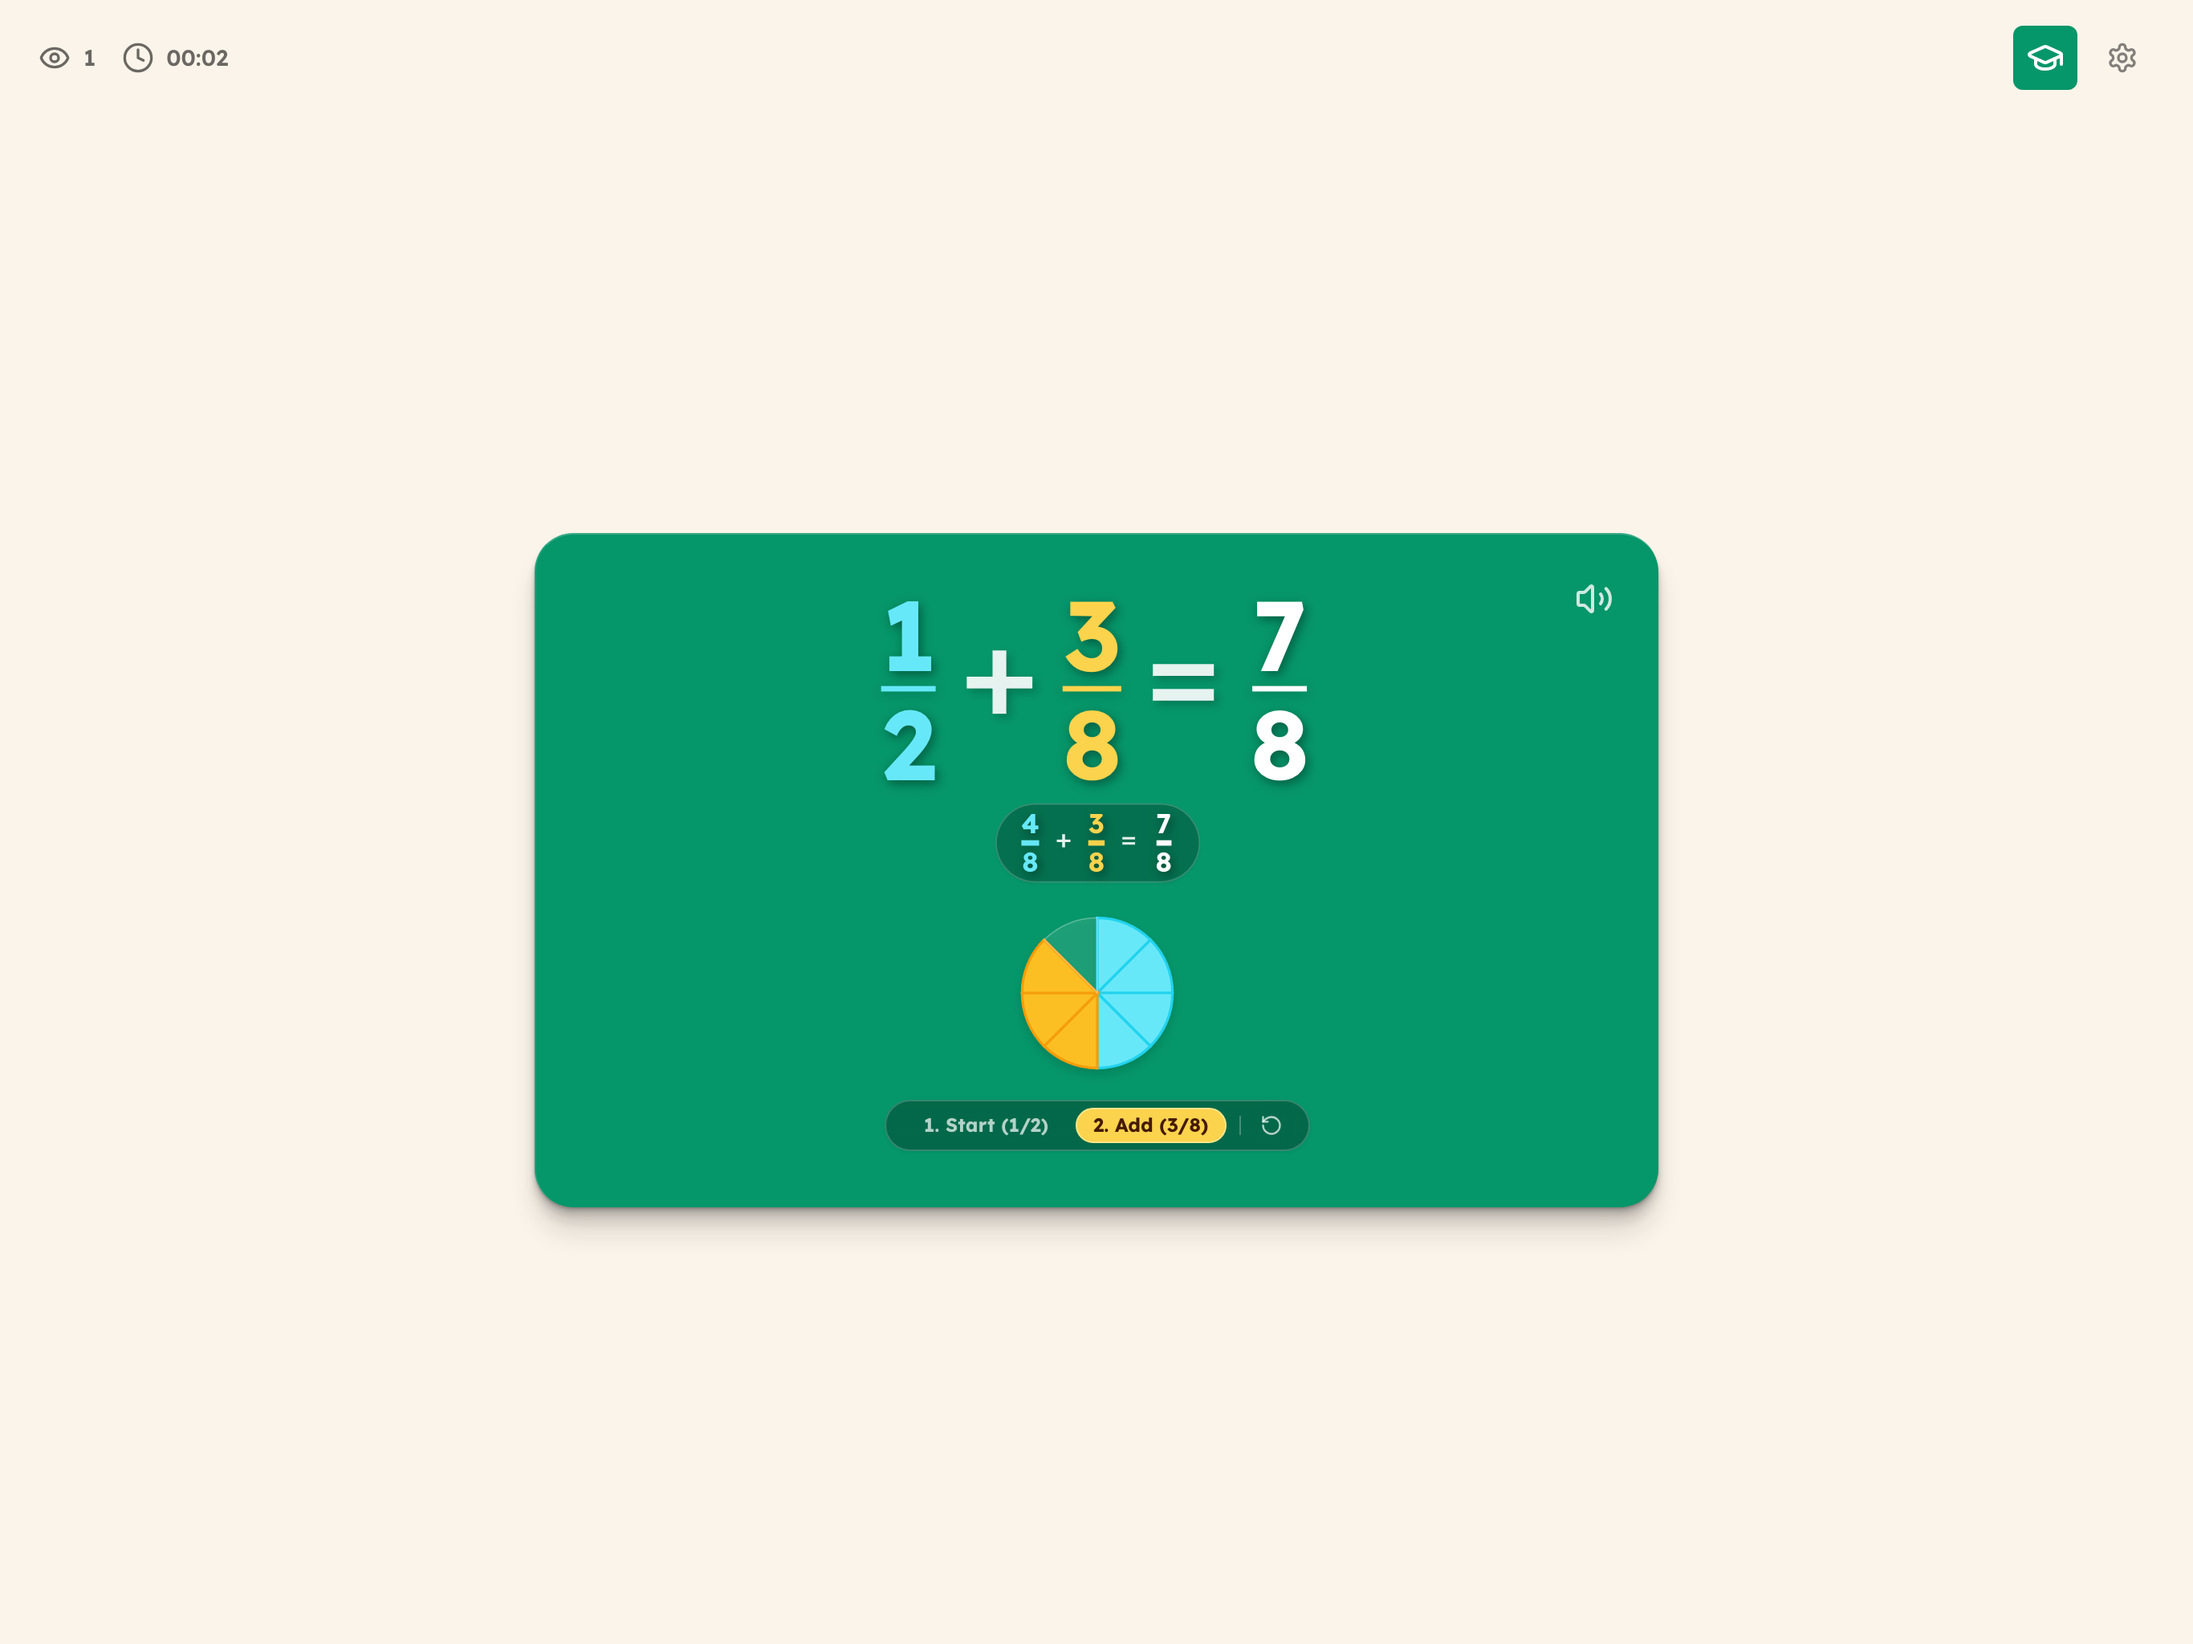
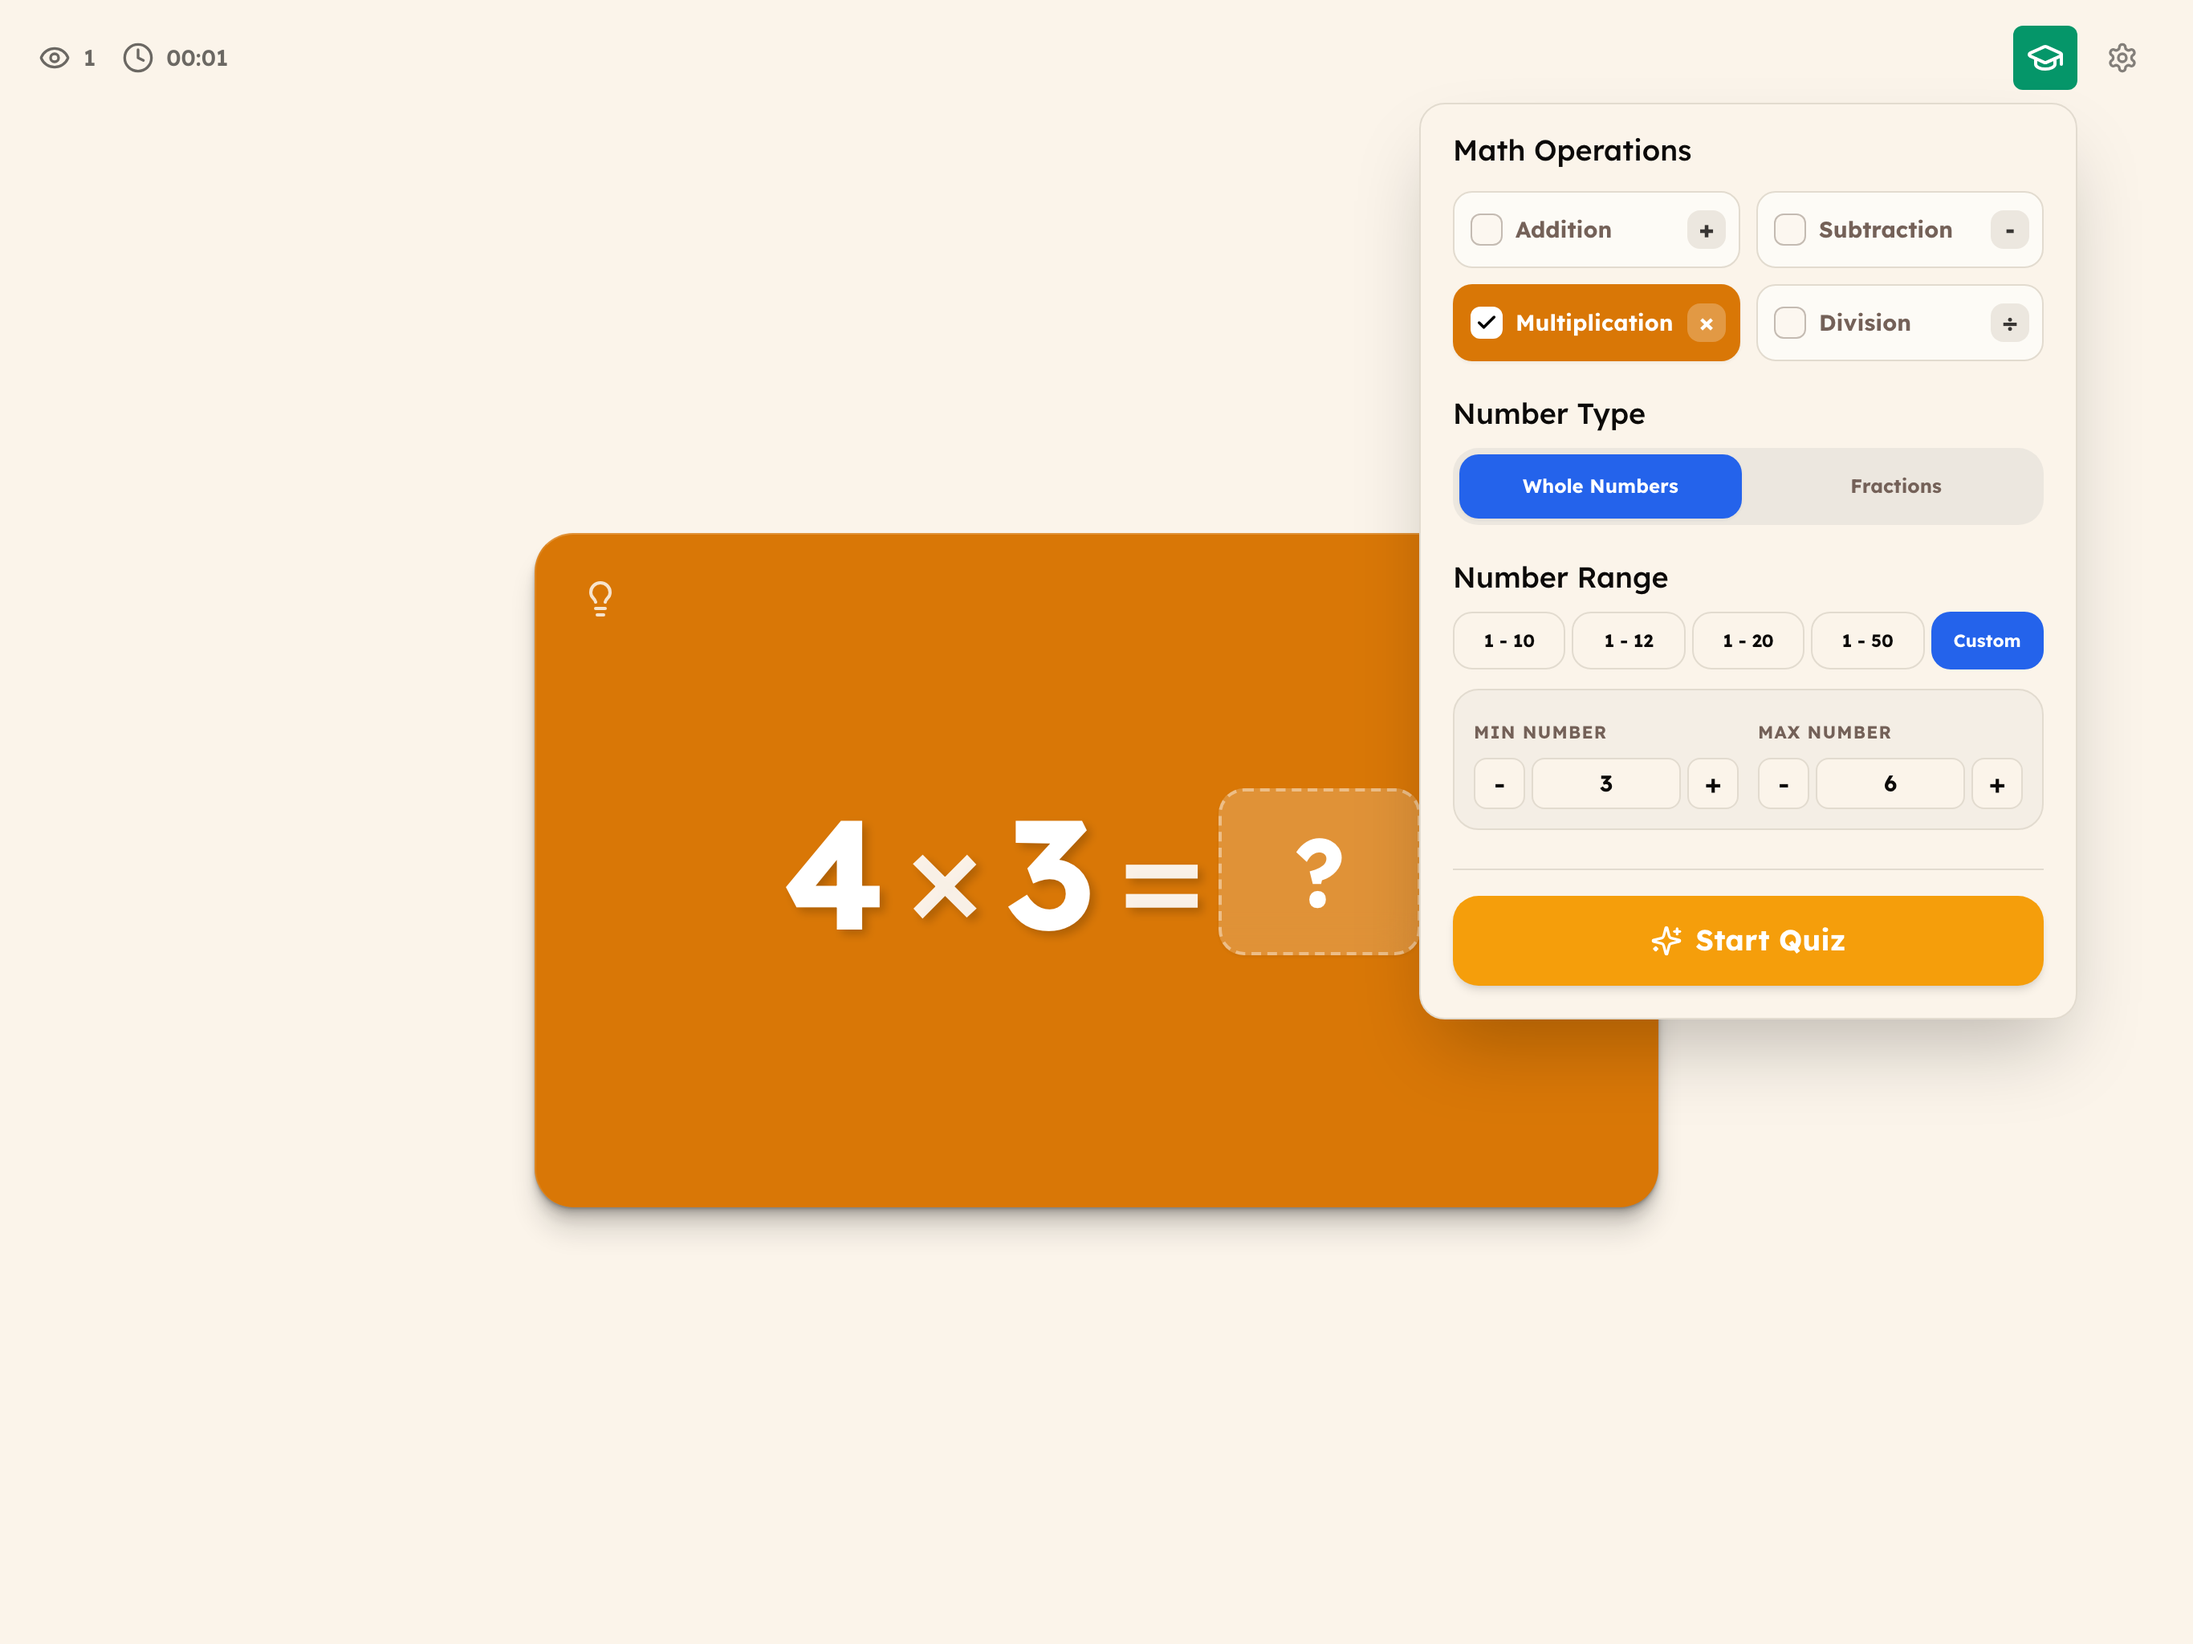
feat(mobile): showcase Skill & Level Customization Selector Modal as Screenshot 3 across iPhone and iPad sets

diff --git a/scripts/generate-all-store-assets.ts b/scripts/generate-all-store-assets.ts
@@ -73,6 +73,19 @@ async function launchActiveQuizMode(page: Page) {
   return false;
 }
 
+async function openSelectorModal(page: Page) {
+  try {
+    const selectorBtn = page.locator("button[aria-label*='Select'], button[aria-label*='settings']").first();
+    if (await selectorBtn.isVisible()) {
+      await selectorBtn.click();
+      await page.waitForTimeout(500);
+      await clearFocus(page);
+      return true;
+    }
+  } catch (e) {}
+  return false;
+}
+
 async function generateAllStoreAssets() {
   const root = process.cwd();
   const browser = await chromium.launch({ headless: true });
@@ -105,15 +118,10 @@ async function generateAllStoreAssets() {
       },
       setupCard3: async (page: Page) => {
         await page.evaluate(() => {
-          localStorage.setItem('math-deck-number-type', '"fractions"');
-          localStorage.setItem('math-deck-operations', JSON.stringify(['+']));
+          localStorage.setItem('theme', 'light');
         });
         await page.reload({ waitUntil: 'networkidle' });
-        const card = page.locator('main > div').first();
-        if (await card.isVisible()) {
-          await card.click();
-          await advanceToLastAnimationStep(page);
-        }
+        await openSelectorModal(page);
       },
       setupCard4: async (page: Page) => {
         await page.evaluate(() => {
@@ -143,10 +151,11 @@ async function generateAllStoreAssets() {
         await page.reload({ waitUntil: 'networkidle' });
       },
       setupCard3: async (page: Page) => {
-        const card = page.locator('main > div').first();
-        if (await card.isVisible()) {
-          await card.click();
-        }
+        await page.evaluate(() => {
+          localStorage.setItem('theme', 'light');
+        });
+        await page.reload({ waitUntil: 'networkidle' });
+        await openSelectorModal(page);
       },
       setupCard4: async (page: Page) => {
         await page.evaluate(() => {
@@ -171,8 +180,8 @@ async function generateAllStoreAssets() {
 
     // 2. Native iPad Landscape Viewport (iPad Pro 12.9" Landscape -> 2732x2048)
     const ipadContext = await browser.newContext({
-      viewport: { width: 1366, height: 1024 }, // Horizontal landscape aspect ratio
-      deviceScaleFactor: 2,                     // Outputs 2732 wide x 2048 tall
+      viewport: { width: 1366, height: 1024 },
+      deviceScaleFactor: 2,
       isMobile: true,
       hasTouch: true,
       colorScheme: 'light',
